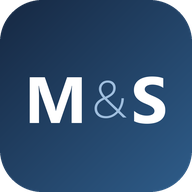
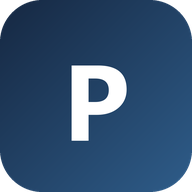
Messagerie Private : chiffrement, vocaux, entrée sans prénoms

Changed region(s): [[0.125, 0.3125, 0.875, 0.75]]

diff --git a/private/index.html b/private/index.html
@@ -3,16 +3,16 @@
 <head>
 <meta charset="utf-8">
 <meta name="viewport" content="width=device-width, initial-scale=1, viewport-fit=cover, interactive-widget=resizes-content">
-<title>Private M et S</title>
+<title>Private</title>
 <meta name="robots" content="noindex, nofollow">
 <meta name="theme-color" content="#1e3f63">
 <link rel="manifest" href="/private/manifest.json">
 <link rel="icon" type="image/png" href="/private/icone-192.png">
 <link rel="apple-touch-icon" href="/private/icone-192.png">
 <meta name="apple-mobile-web-app-capable" content="yes">
-<meta name="apple-mobile-web-app-title" content="Private M et S">
+<meta name="apple-mobile-web-app-title" content="Private">
 <style>
-  /* « Private M et S » (18/11/2026) : une messagerie privée à deux, installable sur le téléphone, avec photos et vidéos.
+  /* « Private » (18/11/2026) : une messagerie privée à deux, installable sur le téléphone, avec photos et vidéos.
      Pas de compte : un code secret choisi au premier lancement, gardé sur chaque téléphone. La base : nora-schema-13-duo.sql. */
   * { box-sizing: border-box; margin: 0; padding: 0; -webkit-tap-highlight-color: transparent; }
   :root { --bleu: #2f5d8a; --fonce: #1e3f63; --nuit: #1c2333; --doux: #e6ecf3; --fond: #f5f7fa; --gris: #6b7686; }
@@ -142,15 +142,24 @@
   #prendre { position: fixed; left: 0; right: 0; bottom: 0; z-index: 30; background: #fff; border-radius: 20px 20px 0 0; box-shadow: 0 -10px 30px rgba(28,35,51,.25); padding: 14px 16px calc(16px + env(safe-area-inset-bottom)); display: flex; flex-direction: column; gap: 10px; }
   #prendre button { padding: 16px; border-radius: 16px; background: var(--doux); color: var(--fonce); font-weight: 700; font-size: 16.5px; }
   #prendre button.annuler { background: none; color: var(--gris); font-weight: 600; padding: 10px; }
+  /* les messages vocaux */
+  #micro { background: var(--doux); color: var(--fonce); }
+  #micro svg { width: 24px; height: 24px; }
+  #vocal { flex: none; display: flex; align-items: center; gap: 10px; padding: 10px 12px; background: #fff; border-top: 1px solid #dfe5ec; font-weight: 600; }
+  #vocal span { flex: 1; color: #c62828; }
+  #vocal button { padding: 10px 16px; border-radius: 999px; background: var(--doux); color: var(--fonce); font-weight: 700; }
+  #vocal button.oui { background: var(--bleu); color: #fff; }
+  .m.media audio { display: block; width: 240px; max-width: 100%; height: 44px; }
+  .m.media .voir { display: block; width: 220px; max-width: 100%; padding: 34px 10px; border-radius: 16px; background: #1c2333; color: #fff; font-weight: 700; }
 </style>
 </head>
 <body>
 <svg width="0" height="0" style="position:absolute"><symbol id="c" viewBox="0 0 24 24"><path d="M12 21s-7.500-4.700-9.600-9.300C.800 8 2.900 4 6.700 4c2 0 3.700 1 5.300 3 1.600-2 3.300-3 5.300-3 3.800 0 5.900 4 4.300 7.700C19.500 16.300 12 21 12 21z"/></symbol></svg>
 
 <main id="entree" hidden>
-  <h1>Private M et S</h1>
+  <h1>Private</h1>
   <p id="consigne"></p>
-  <div class="qui"><button type="button" data-qui="Mohamed">Je suis Mohamed</button><button type="button" data-qui="Souad">Je suis Souad</button></div>
+  <input class="champ" id="prenom" type="text" autocomplete="off" autocapitalize="words" placeholder="Votre prénom" aria-label="Votre prénom">
   <input class="champ" id="code" type="password" autocomplete="off" placeholder="Votre code secret" aria-label="Code secret">
   <input class="champ" id="code2" type="password" autocomplete="off" placeholder="Le même code, une seconde fois" aria-label="Confirmer le code" hidden>
   <div id="erreur" role="alert"></div>
@@ -167,7 +176,7 @@
 <div id="appli" hidden>
   <header>
     <div id="photos"><span data-p="Mohamed" role="img" aria-label="Mohamed">M</span><span data-p="Souad" role="img" aria-label="Souad">S</span></div>
-    <h2>Private M et S</h2>
+    <h2>Private</h2>
     <button type="button" id="appelAudio" aria-label="Appel audio"><svg viewBox="0 0 24 24" fill="currentColor"><path d="M6.6 10.8c1.4 2.8 3.8 5.1 6.6 6.6l2.2-2.2c.3-.3.7-.4 1-.2 1.100.4 2.300.6 3.600.6.6 0 1 .4 1 1V20c0 .6-.4 1-1 1C10.600 21 3 13.400 3 4c0-.6.4-1 1-1h3.500c.6 0 1 .4 1 1 0 1.300.2 2.500.6 3.600.1.3 0 .7-.2 1l-2.300 2.200z"/></svg></button>
     <button type="button" id="appelVideo" aria-label="Appel vidéo"><svg viewBox="0 0 24 24" fill="currentColor"><rect x="2.500" y="6" width="13" height="12" rx="2.500"/><path d="M16.500 10.500l5-3v9l-5-3z"/></svg></button>
     <button type="button" id="ouvrirMenu" aria-label="Menu">⋮</button>
@@ -185,11 +194,13 @@
   <div id="bandeau" hidden><span></span><button type="button" id="activer">Activer</button><button type="button" class="plus-tard" id="plusTard" aria-label="Plus tard">×</button></div>
   <div id="fil" aria-live="polite"></div>
   <div id="prets" aria-label="Messages tout prêts"></div>
+  <div id="vocal" hidden><span aria-live="polite"></span><button type="button" id="vocalNon">Annuler</button><button type="button" class="oui" id="vocalOui">Envoyer</button></div>
   <footer>
     <button type="button" id="joindre" aria-label="Envoyer une photo ou une vidéo"><svg viewBox="0 0 24 24" fill="none" stroke="currentColor" stroke-width="2" stroke-linecap="round" stroke-linejoin="round"><rect x="3" y="6" width="18" height="14" rx="3"/><circle cx="12" cy="13" r="3.500"/><path d="M8 6l1.500-2h5L16 6"/></svg></button>
     <input type="file" id="fichier" accept="image/*,video/*" multiple hidden>
     <input type="file" id="camPhoto" accept="image/*" capture="environment" hidden>
     <input type="file" id="camVideo" accept="video/*" capture="environment" hidden>
+    <button type="button" id="micro" aria-label="Enregistrer un message vocal"><svg viewBox="0 0 24 24" fill="none" stroke="currentColor" stroke-width="2" stroke-linecap="round" stroke-linejoin="round"><rect x="9" y="3" width="6" height="11" rx="3"/><path d="M5.5 11a6.5 6.5 0 0 0 13 0M12 17.5V21"/></svg></button>
     <textarea id="texte" rows="1" placeholder="Écrire un message" aria-label="Écrire un message" maxlength="4000"></textarea>
     <button type="button" id="envoyer" aria-label="Envoyer"></button>
   </footer>
@@ -218,7 +229,39 @@
   var moi = {}; try { moi = JSON.parse(localStorage.getItem("duo") || "{}"); } catch (e) {}
   var garder = function () { try { localStorage.setItem("duo", JSON.stringify(moi)); } catch (e) {}
     // une copie pour le service des notifications, qui s'en sert pour envoyer la réponse tapée dans la notification
-    try { if (window.caches) caches.open("private-moi").then(function (c) { return moi.code ? c.put("/private/moi", new Response(JSON.stringify({ qui: moi.qui, code: moi.code }), { headers: { "Content-Type": "application/json" } })) : c.delete("/private/moi"); }).catch(function () {}); } catch (e) {} };
+    try { if (window.caches) caches.open("private-moi").then(function (c) { return moi.code ? c.put("/private/moi", new Response(JSON.stringify({ qui: moi.qui, code: moi.code, cle: moi.cle }), { headers: { "Content-Type": "application/json" } })) : c.delete("/private/moi"); }).catch(function () {}); } catch (e) {} };
+  /* ---------- le chiffrement (sur le téléphone ; la base ne voit que du texte illisible) ---------- */
+  var enOct = function (t) { return new TextEncoder().encode(t); };
+  var b64 = function (u) { u = new Uint8Array(u); var t = ""; for (var i = 0; i < u.length; i++) t += String.fromCharCode(u[i]); return btoa(t); };
+  var deb64 = function (t) { var x = atob(t), u = new Uint8Array(x.length); for (var i = 0; i < x.length; i++) u[i] = x.charCodeAt(i); return u; };
+  // la clé : tirée du code secret, une fois, puis gardée sur ce téléphone
+  function fabriquerCle() {
+    if (moi.cle || !moi.code) return Promise.resolve();
+    return crypto.subtle.importKey("raw", enOct(moi.code), "PBKDF2", false, ["deriveBits"])
+      .then(function (k) { return crypto.subtle.deriveBits({ name: "PBKDF2", salt: enOct("private:" + moi.dossier), iterations: 150000, hash: "SHA-256" }, k, 256); })
+      .then(function (bits) { moi.cle = b64(bits); });
+  }
+  var cleGardee = { s: "", p: null };
+  function cle() { if (cleGardee.s !== moi.cle) cleGardee = { s: moi.cle, p: crypto.subtle.importKey("raw", deb64(moi.cle), "AES-GCM", false, ["encrypt", "decrypt"]) }; return cleGardee.p; }
+  function chiffrerOctets(buf) { var iv = crypto.getRandomValues(new Uint8Array(12));
+    return cle().then(function (k) { return crypto.subtle.encrypt({ name: "AES-GCM", iv: iv }, k, buf); }).then(function (c) { var u = new Uint8Array(12 + c.byteLength); u.set(iv); u.set(new Uint8Array(c), 12); return u; }); }
+  function dechiffrerOctets(buf) { var u = new Uint8Array(buf); return cle().then(function (k) { return crypto.subtle.decrypt({ name: "AES-GCM", iv: u.slice(0, 12) }, k, u.slice(12)); }); }
+  function chiffrer(t) { if (!t) return Promise.resolve("");
+    return chiffrerOctets(enOct(t)).then(function (u) { var c = "c1:" + b64(u); if (c.length > 4000) throw new Error("Message trop long : coupez-le en deux."); return c; }); }
+  function dechiffrer(t) { if (!t || t.indexOf("c1:") !== 0) return Promise.resolve(t || "");
+    return dechiffrerOctets(deb64(t.slice(3))).then(function (b) { return new TextDecoder().decode(b); }).catch(function () { return "Message illisible sur ce téléphone"; }); }
+  function clair(l) { return Promise.all(l.map(function (m) { return dechiffrer(m.texte).then(function (t) { m.texte = t; }); })); }
+  var marque = function (type) { return ESSAI ? type : "c1;" + type; };   // « c1; » devant le type : le fichier est chiffré
+  // un fichier chiffré : on le charge, on le déchiffre, on le montre. Une vidéo attend qu'on la demande (elle se charge en entier).
+  function secret(el, chemin, type, video) {
+    var charger = function () { return fetch(adresse(chemin)).then(function (r) { if (!r.ok) throw 0; return r.arrayBuffer(); }).then(dechiffrerOctets)
+      .then(function (b) { el.src = URL.createObjectURL(new Blob([b], { type: type })); }); };
+    if (!video) { charger().catch(function () { el.alt = "Fichier illisible"; }); return null; }
+    el.hidden = true; var b = document.createElement("button"); b.type = "button"; b.className = "voir"; b.textContent = "▶  Voir la vidéo";
+    b.onclick = function () { b.disabled = true; b.textContent = "Chargement…"; charger().then(function () { b.remove(); el.hidden = false; el.play().catch(function () {}); }).catch(function () { b.disabled = false; b.textContent = "La vidéo ne se charge pas : réessayer"; }); };
+    return b;
+  }
+
   var dernier = 0, premier = 0, vuAutre = 0, recuAutre = 0, vuLe = null, vus = {}, veille = null, enCours = false;
 
   function toast(t) { var z = $("toast"); z.textContent = t; z.hidden = false; clearTimeout(toast.t); toast.t = setTimeout(function () { z.hidden = true; }, 3200); }
@@ -256,8 +299,8 @@
     $("appli").hidden = true; $("entree").hidden = false; $("erreur").textContent = "";
     appel("duo_existe").then(function (existe) {
       nouveau = !existe; $("code2").hidden = !nouveau;
-      $("consigne").textContent = nouveau ? "Premier lancement : choisissez votre prénom, puis un code secret à vous deux (six caractères au moins). L'autre tapera le même sur son téléphone."
-        : "Choisissez votre prénom et tapez votre code secret. Il ne sera demandé qu'une fois sur ce téléphone.";
+      $("consigne").textContent = nouveau ? "Premier lancement : tapez votre prénom, puis choisissez un code secret (six caractères au moins)."
+        : "Tapez votre prénom et votre code secret.";
       $("entrer").textContent = nouveau ? "Créer notre messagerie" : "Entrer";
     }).catch(function (e) { $("erreur").textContent = e.message; });
     document.querySelectorAll("[data-qui]").forEach(function (b) { b.classList.toggle("choisi", b.dataset.qui === choix); });
@@ -265,13 +308,17 @@
   document.querySelectorAll("[data-qui]").forEach(function (b) { b.onclick = function () { choix = b.dataset.qui; document.querySelectorAll("[data-qui]").forEach(function (x) { x.classList.toggle("choisi", x === b); }); }; });
   $("entrer").onclick = function () {
     var code = $("code").value, b = $("entrer"); $("erreur").textContent = "";
-    if (!choix) return $("erreur").textContent = "Dites d'abord qui vous êtes.";
+    var p = $("prenom").value.trim().toLowerCase().normalize("NFD").replace(/[^a-z]/g, "");
+    if (!p) return $("erreur").textContent = "Tapez votre prénom.";
+    choix = p === "souad" ? "Souad" : /^moham+[ae]d$/.test(p) ? "Mohamed" : "";
     if (code.length < 6) return $("erreur").textContent = "Le code fait six caractères au moins.";
     if (nouveau && code !== $("code2").value) return $("erreur").textContent = "Les deux codes ne sont pas les mêmes.";
+    if (!choix) return $("erreur").textContent = "Ce n'est pas le bon code.";
     b.disabled = true;
     (nouveau ? appel("duo_creer", { p_code: code }) : Promise.resolve(true)).then(function () { return appel("duo_ouvrir", { p_code: code }); }).then(function (r) {
       if (!r.ok) throw new Error("Ce n'est pas le bon code.");
-      moi = { qui: choix, code: code, dossier: r.dossier }; garder(); $("code").value = $("code2").value = ""; ouvrir();
+      moi = { qui: choix, code: code, dossier: r.dossier }; $("code").value = $("code2").value = $("prenom").value = "";
+      return fabriquerCle().then(function () { garder(); ouvrir(); });
     }).catch(function (e) { $("erreur").textContent = e.message; }).then(function () { b.disabled = false; });
   };
 
@@ -283,9 +330,10 @@
     var e = document.createElement("div"), mien = m.de === moi.qui; e.className = "m" + (mien ? " moi" : ""); e.dataset.id = m.id; e.dataset.jour = jourDe(m.created_at); e.dataset.de = m.de;
     if (m.supprime) { e.classList.add("retire"); e.textContent = "Message retiré"; }
     else if (m.media_chemin) { e.classList.add("media"); e.dataset.chemin = m.media_chemin;
-      var v = /^video/.test(m.media_type || ""), el = document.createElement(v ? "video" : "img"); el.src = adresse(m.media_chemin);
-      if (v) { el.controls = true; el.preload = "metadata"; el.playsInline = true; } else { el.alt = "Photo"; el.loading = "lazy"; el.onclick = function () { $("grand").querySelector("img").src = el.src; $("grand").hidden = false; }; }
-      e.appendChild(el); if (m.texte) { var t = document.createElement("div"); t.className = "txt"; t.textContent = m.texte; e.appendChild(t); } }
+      var tm = (m.media_type || "").replace(/^c1;/, ""), cache = /^c1;/.test(m.media_type || ""), v = /^video/.test(tm), son = /^audio/.test(tm), el = document.createElement(son ? "audio" : v ? "video" : "img");
+      var bouton = cache ? secret(el, m.media_chemin, tm, v) : (el.src = adresse(m.media_chemin), null);
+      if (son) { el.controls = true; el.preload = "metadata"; } else if (v) { el.controls = true; el.preload = "metadata"; el.playsInline = true; } else { el.alt = "Photo"; el.loading = "lazy"; el.onclick = function () { $("grand").querySelector("img").src = el.src; $("grand").hidden = false; }; }
+      e.appendChild(el); if (bouton) e.appendChild(bouton); if (m.texte) { var t = document.createElement("div"); t.className = "txt"; t.textContent = m.texte; e.appendChild(t); } }
     else e.textContent = m.texte;
     var s = document.createElement("small"); s.textContent = heure(m.created_at); e.appendChild(s);
     // un appui long sur un de ses propres messages propose de le retirer
@@ -317,7 +365,7 @@
   }
   function lire(avant) {
     if (enCours && !avant) return Promise.resolve(); if (!avant) enCours = true;
-    return appel("duo_lire", { p_code: moi.code, p_qui: moi.qui, p_apres: avant ? 0 : dernier, p_avant: avant || null }).then(function (r) {
+    return appel("duo_lire", { p_code: moi.code, p_qui: moi.qui, p_apres: avant ? 0 : dernier, p_avant: avant || null }).then(function (r) { return clair(r.messages || []).then(function () { return r; }); }).then(function (r) {
       var neufs = (r.messages || []).filter(function (m) { return !vus[m.id]; });
       if (avant) { poser(neufs.slice().reverse(), true); $("avant").hidden = neufs.length < 60; }
       else { var recu = dernier > 0 && neufs.some(function (m) { return m.de !== moi.qui && !m.supprime; }); poser(neufs); if (recu) tinter(); }
@@ -347,7 +395,7 @@
     texte.style.height = "46px"; texte.style.height = Math.max(46, Math.min(130, texte.scrollHeight + 2)) + "px"; }
   texte.addEventListener("input", etatBouton);
   function envoyer(t, chemin, type) {
-    return appel("duo_envoyer", { p_code: moi.code, p_de: moi.qui, p_texte: t || "", p_chemin: chemin || null, p_type: type || null }).then(function () { return lire(); }).then(function () { $("fil").scrollTop = $("fil").scrollHeight; });
+    return chiffrer(t || "").then(function (c) { return appel("duo_envoyer", { p_code: moi.code, p_de: moi.qui, p_texte: c, p_chemin: chemin || null, p_type: type || null }); }).then(function () { return lire(); }).then(function () { $("fil").scrollTop = $("fil").scrollHeight; });
   }
   function prets() {
     var e = moi.qui === "Souad" ? "e" : "";
@@ -373,7 +421,11 @@
     return createImageBitmap(f).then(function (im) { var k = Math.min(1, 1920 / Math.max(im.width, im.height)), c = document.createElement("canvas"); c.width = Math.round(im.width * k); c.height = Math.round(im.height * k);
       c.getContext("2d").drawImage(im, 0, 0, c.width, c.height); return new Promise(function (ok) { c.toBlob(function (b) { ok(b && b.size < f.size ? new File([b], "photo.jpg", { type: "image/jpeg" }) : f); }, "image/jpeg", .86); }); }).catch(function () { return f; });
   }
-  function deposer(f, suivi) {
+  function deposer(f, suivi, enClair) {
+    if (ESSAI || enClair) return deposerBrut(f, suivi);
+    return f.arrayBuffer().then(chiffrerOctets).then(function (u) { return deposerBrut(new File([u], f.name, { type: f.type }), suivi); });
+  }
+  function deposerBrut(f, suivi) {
     var ext = (f.name.split(".").pop() || (/^video/.test(f.type) ? "mp4" : "jpg")).toLowerCase().replace(/[^a-z0-9]/g, "").slice(0, 5) || "bin";
     var nom = (crypto.randomUUID ? crypto.randomUUID() : String(Date.now()) + Math.random().toString(16).slice(2)) + "." + ext, chemin = moi.dossier + "/" + nom;
     if (ESSAI) return new Promise(function (ok) { var r = new FileReader(); r.onload = function () { ok(f.size < 900000 ? r.result : "data:,trop-lourd-pour-l-essai"); }; r.readAsDataURL(f); });
@@ -392,11 +444,39 @@
       if (f.size > 50 * 1024 * 1024) throw new Error("Cette vidéo dépasse 50 Mo : elle est trop lourde pour partir.");
       var quoi = (/^video/.test(f.type) ? "Vidéo" : "Photo") + (liste.length > 1 ? " " + (i + 1) + " sur " + liste.length : "");
       z.textContent = quoi + " : préparation…";
-      return reduire(f).then(function (g) { return deposer(g, function (p) { z.textContent = quoi + " : " + p + " %"; }).then(function (chemin) { return envoyer("", chemin, g.type); }); });
+      return reduire(f).then(function (g) { return deposer(g, function (p) { z.textContent = quoi + " : " + p + " %"; }).then(function (chemin) { return envoyer("", chemin, marque(g.type)); }); });
     }); });
     suite.catch(function (e) { toast(e.message); }).then(function () { z.remove(); });
   };
   $("camPhoto").onchange = $("camVideo").onchange = $("fichier").onchange;   // même chemin que la galerie
+  /* ---------- les messages vocaux ---------- */
+  var enr = null;
+  $("micro").onclick = function () {
+    if (enr) return;
+    if (!navigator.mediaDevices || !window.MediaRecorder) return toast("Ce téléphone ne sait pas enregistrer la voix ici.");
+    navigator.mediaDevices.getUserMedia({ audio: true }).then(function (f) {
+      var type = ["audio/webm;codecs=opus", "audio/webm", "audio/mp4", "audio/ogg"].filter(function (t) { return MediaRecorder.isTypeSupported(t); })[0] || "";
+      var r = new MediaRecorder(f, type ? { mimeType: type } : undefined), a = enr = { r: r, f: f, morceaux: [], debut: Date.now() };
+      r.ondataavailable = function (e) { if (e.data && e.data.size) a.morceaux.push(e.data); };
+      r.start(); $("vocal").hidden = false;
+      var montre = function () { var n = Math.floor((Date.now() - a.debut) / 1000); $("vocal").querySelector("span").textContent = "● Enregistrement " + Math.floor(n / 60) + ":" + String(n % 60).padStart(2, "0"); if (n >= 300) finVocal(true); };
+      montre(); a.t = setInterval(montre, 500);
+    }).catch(function () { toast("Autorisez le micro pour cette appli, puis recommencez."); });
+  };
+  function finVocal(envoi) {
+    if (!enr) return; var a = enr; enr = null; clearInterval(a.t); $("vocal").hidden = true;
+    a.r.onstop = function () {
+      a.f.getTracks().forEach(function (t) { t.stop(); }); if (!envoi) return;
+      var base = (a.r.mimeType || "audio/webm").split(";")[0], ext = base === "audio/mp4" ? "m4a" : base === "audio/ogg" ? "ogg" : "webm", b = new Blob(a.morceaux, { type: base });
+      if (b.size < 1500) return toast("Message trop court.");
+      var z = document.createElement("div"); z.id = "envoi"; z.textContent = "Message vocal : envoi…"; $("fil").appendChild(z); $("fil").scrollTop = $("fil").scrollHeight;
+      deposer(new File([b], "vocal." + ext, { type: base }), function (p) { z.textContent = "Message vocal : " + p + " %"; }).then(function (chemin) { return envoyer("", chemin, marque(base)); })
+        .catch(function (e) { toast(e.message || "Le message vocal n'est pas parti."); }).then(function () { z.remove(); });
+    };
+    try { a.r.stop(); } catch (e) { a.r.onstop(); }
+  }
+  $("vocalOui").onclick = function () { finVocal(true); };
+  $("vocalNon").onclick = function () { finVocal(false); };
   // sa propre photo : recadrée en carré, 400 pixels de côté
   function carre(f) {
     return createImageBitmap(f).then(function (im) { var c = Math.min(im.width, im.height), t = document.createElement("canvas"); t.width = t.height = 400;
@@ -406,7 +486,7 @@
   $("maPhoto").onclick = function () { $("menu").hidden = true; $("fichierPhoto").click(); };
   $("fichierPhoto").onchange = function () {
     var f = this.files[0]; this.value = ""; if (!f) return;
-    carre(f).then(function (g) { return deposer(g, function () {}); }).then(function (chemin) { return appel("duo_photo", { p_code: moi.code, p_qui: moi.qui, p_chemin: chemin }); })
+    carre(f).then(function (g) { return deposer(g, function () {}, true); }).then(function (chemin) { return appel("duo_photo", { p_code: moi.code, p_qui: moi.qui, p_chemin: chemin }); })
       .then(function () { toast("Votre photo est en place."); return lire(); }).catch(function (e) { toast(e.message || "La photo n'est pas partie."); });
   };
   $("grand").onclick = function () { $("grand").hidden = true; };
@@ -632,7 +712,7 @@
 
   /* ---------- départ ---------- */
   etatBouton(); appliquerFond();
-  if (moi.code && moi.qui) appel("duo_ouvrir", { p_code: moi.code }).then(function (r) { if (!r.ok) throw 0; moi.dossier = r.dossier; garder(); ouvrir(); }).catch(function () { ecranEntree(); });
+  if (moi.code && moi.qui) appel("duo_ouvrir", { p_code: moi.code }).then(function (r) { if (!r.ok) throw 0; moi.dossier = r.dossier; return fabriquerCle(); }).then(function () { garder(); ouvrir(); }).catch(function () { ecranEntree(); });
   else ecranEntree();
 })();
 </script>

diff --git a/private/sw.js b/private/sw.js
@@ -1,4 +1,4 @@
-// « Private M et S » : le service qui reçoit les notifications, même l'appli fermée.
+// « Private » : le service qui reçoit les notifications, même l'appli fermée.
 // On peut répondre dans la notification elle-même (là où le téléphone le permet : Chrome sur Android).
 const BASE = "https://olsqmrsyerdsyfkameab.supabase.co", CLE = "sb_publishable_nHTOBhRB-oKfl795VPVaAA_ujwUnkCn";
 const ICONE = "/private/icone-192.png", PASTILLE = "/private/pastille.png";
@@ -7,7 +7,7 @@ self.addEventListener("activate", e => e.waitUntil(self.clients.claim()));
 self.addEventListener("fetch", () => {});   // présent pour que le téléphone propose l'installation
 
 self.addEventListener("push", e => {
-  let m = { titre: "Private M et S", texte: "Un nouveau message" };
+  let m = { titre: "Private", texte: "Un nouveau message" };
   try { m = Object.assign(m, e.data.json()); } catch (err) {}
   // la notification est arrivée sur ce téléphone : on le dit à la base, pour que l'autre voie « Reçu »
   e.waitUntil(moi().then(q => q && q.code && q.qui ? fetch(BASE + "/rest/v1/rpc/duo_recu", { method: "POST", headers: { "Content-Type": "application/json", apikey: CLE }, body: JSON.stringify({ p_code: q.code, p_qui: q.qui }) }) : null).catch(() => {}));
@@ -32,13 +32,22 @@ self.addEventListener("push", e => {
 // qui tient ce téléphone, et son code : l'appli les range ici à l'entrée (le service ne peut pas lire la mémoire de la page)
 const moi = () => caches.open("private-moi").then(c => c.match("/private/moi")).then(r => r ? r.json() : null).catch(() => null);
 
+// la réponse tapée dans la notification part chiffrée, comme depuis l'appli (même clé, rangée par l'appli à l'entrée)
+const chiffrer = async (cle, t) => {
+  const brut = Uint8Array.from(atob(cle), c => c.charCodeAt(0)), k = await crypto.subtle.importKey("raw", brut, "AES-GCM", false, ["encrypt"]);
+  const iv = crypto.getRandomValues(new Uint8Array(12)), c = new Uint8Array(await crypto.subtle.encrypt({ name: "AES-GCM", iv }, k, new TextEncoder().encode(t)));
+  const u = new Uint8Array(12 + c.length); u.set(iv); u.set(c, 12);
+  let s = ""; for (let i = 0; i < u.length; i++) s += String.fromCharCode(u[i]);
+  return "c1:" + btoa(s);
+};
+
 self.addEventListener("notificationclick", e => {
   e.notification.close();
   if (e.action === "repondre" && e.reply) {
     const rate = () => self.registration.showNotification("La réponse n'est pas partie", { body: "Touchez pour ouvrir la messagerie et répondre.", icon: ICONE, badge: PASTILLE, tag: "duo-rate", data: { url: "/private/" } });
     e.waitUntil(moi().then(m => {
-      if (!m || !m.code || !m.qui) return rate();
-      return fetch(BASE + "/rest/v1/rpc/duo_envoyer", { method: "POST", headers: { "Content-Type": "application/json", apikey: CLE }, body: JSON.stringify({ p_code: m.code, p_de: m.qui, p_texte: e.reply }) })
+      if (!m || !m.code || !m.qui || !m.cle) return rate();   // sans la clé, pas de réponse en clair : on ouvre l'appli
+      return chiffrer(m.cle, e.reply).then(c => fetch(BASE + "/rest/v1/rpc/duo_envoyer", { method: "POST", headers: { "Content-Type": "application/json", apikey: CLE }, body: JSON.stringify({ p_code: m.code, p_de: m.qui, p_texte: c }) }))
         .then(r => r.ok ? null : rate()).catch(rate);
     }));
     return;
